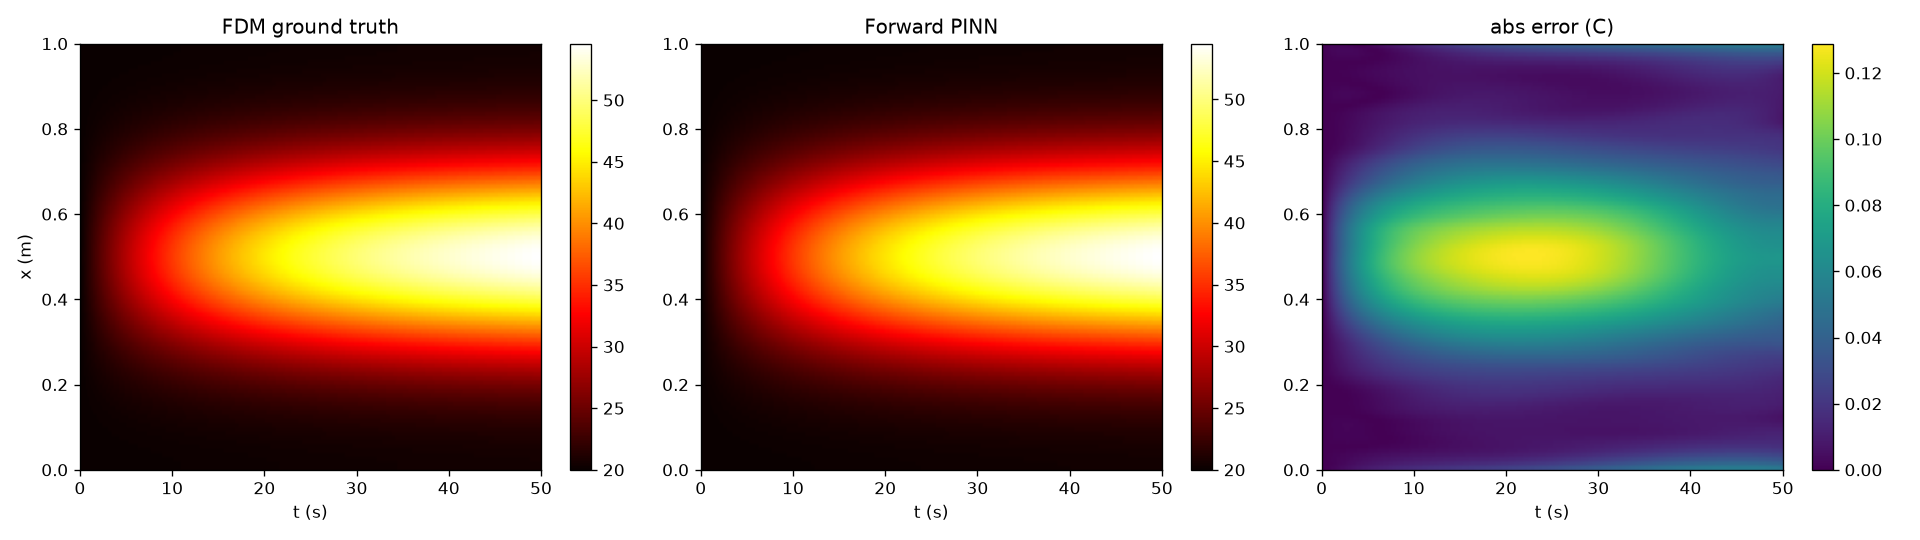
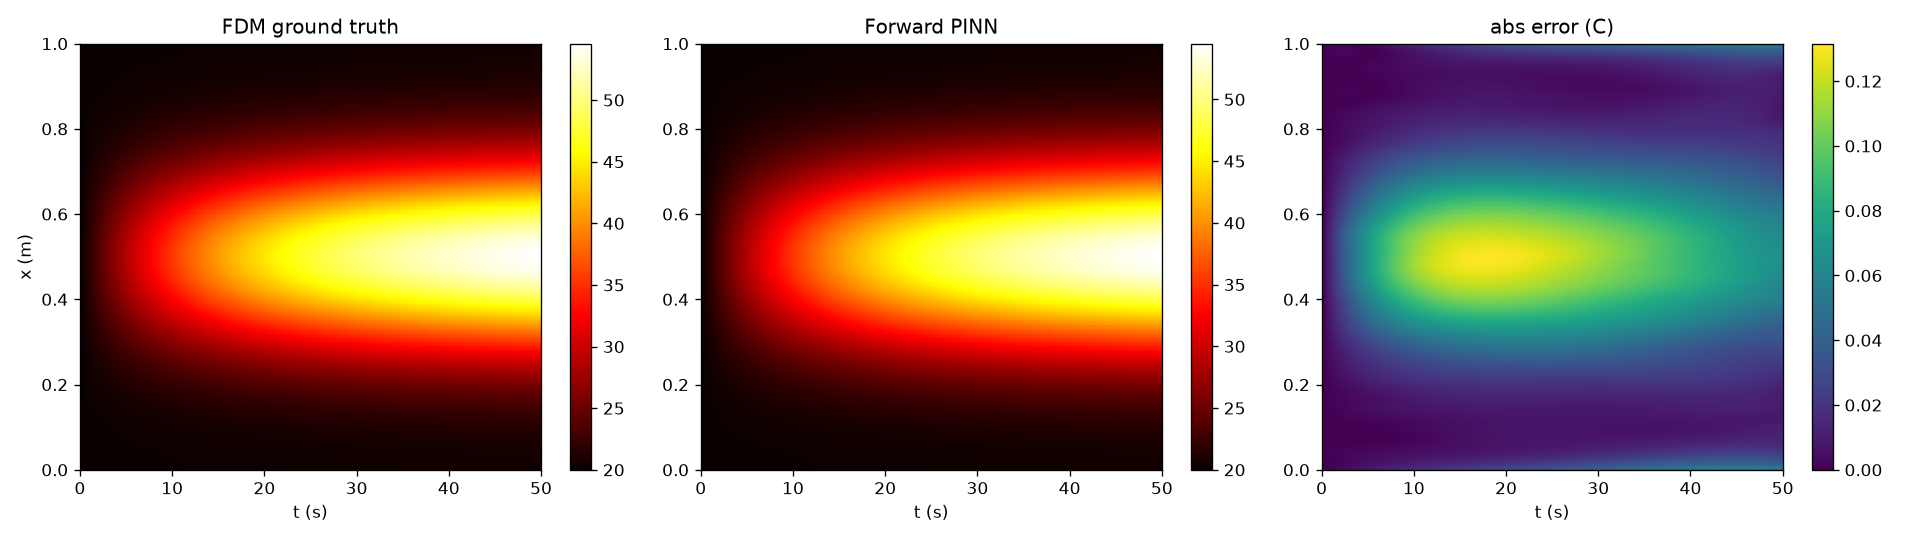
ensemble uq: h = 0.0488 +/- 0.0022, true value inside 2 sigma, readme updated

diff --git a/README.md b/README.md
@@ -70,9 +70,9 @@ Gaussian noise added to mimic real thermocouples.
 
 | metric | value |
 |---|---|
-| relative L2 error over the full (x,t) grid | **0.17%** |
+| relative L2 error over the full (x,t) grid | **0.18%** |
 | max absolute error anywhere | 0.13 C |
-| final PDE residual | 5.9e-07 |
+| final PDE residual | 2.8e-07 |
 
 ![forward](figures/forward_pinn_vs_fdm.png)
 
@@ -130,6 +130,25 @@ Two honest readings of this table:
 
 Also noted: the 3-sensor/2C cell beating the 1C cell is single-seed noise
 luck - a proper study would average multiple noise realizations per cell.
+The ensemble section below quantifies exactly this seed-to-seed spread.
+
+### Uncertainty quantification: ensemble of 5 inverse PINNs
+
+Five members, each with a different network init AND a different noise
+realization (headline config: 3 sensors, 1 C noise). `ensemble_uq.py`:
+
+| | value |
+|---|---|
+| member estimates | 0.05142, 0.04862, 0.04957, 0.04966, 0.04473 |
+| ensemble mean | 0.0488 |
+| ensemble std | 0.0022 |
+| true h inside mean +/- 2 std | yes |
+| mean error | 2.4% |
+
+One member landed 10.5% off (seed 4) - a single-run estimate can silently be
+that member. The ensemble both averages the error down and hands you an
+honest error bar, which is what you would actually want before trusting a
+recovered cooling coefficient on a real tube design.
 
 ### Baseline bake-off: same sparse data, full-field reconstruction
 
@@ -152,16 +171,17 @@ PDE, which is the entire point of the method.
 - ground truth is a numerical solver, not physical sensor data
 - radiative losses ignored, convection linearized with a single constant h
 - the heat source Q(x) is a synthetic Gaussian, not measured drive power
-- the envelope time constant tau is fixed; in the forward model it is set to
-  1/h which mildly encodes prior knowledge of the cooling rate (the inverse
-  model uses a generic tau=15 so the true h does not leak into it)
+- the sensitivity table is one seed per cell; only the headline configuration
+  got the full 5-member ensemble treatment
 
 ## What I'd do differently / extensions
 
 - 2D (x, r) model of the tube cross-section
-- ensemble PINNs for uncertainty bands on the recovered h
+- extend the ensemble treatment to every sensitivity cell (done for the
+  headline config, see the UQ section)
 - validate against a real tube with actual thermocouples
 - swap the synthetic Q for drive-current-derived power density
+- joint inversion of h AND Q amplitude from the same sparse data
 
 ## Repo layout
 
@@ -194,6 +214,7 @@ python3 sensitivity_study.py
 python3 baselines/least_squares_h.py
 python3 baselines/data_only_nn.py
 python3 baselines/lstm_baseline.py
+python3 ensemble_uq.py
 ```
 
 Everything trains on CPU in minutes.